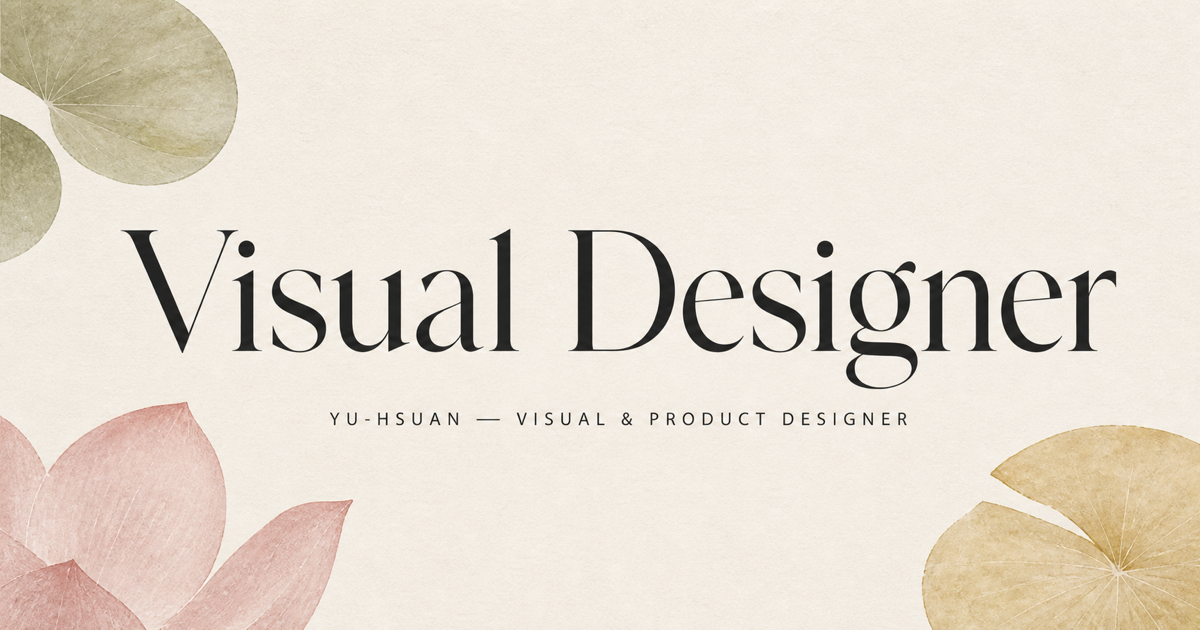
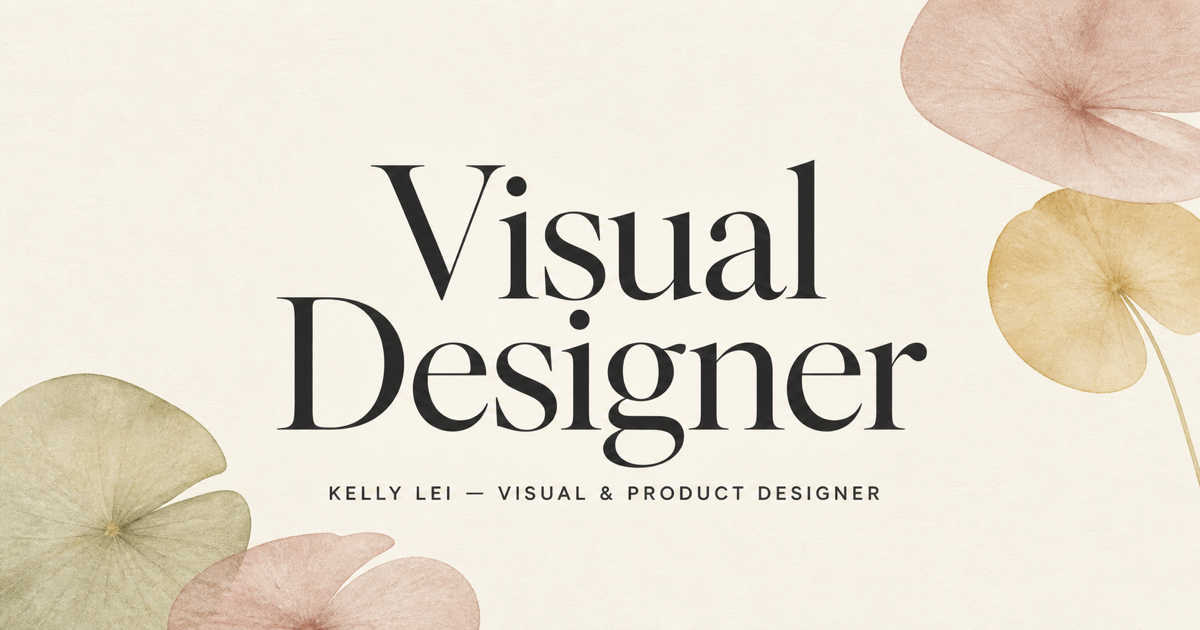
Personalize portfolio for Kelly and add motion

diff --git a/app/globals.css b/app/globals.css
@@ -19,9 +19,9 @@ button{font:inherit;color:inherit}
 .intro h1 span{padding-right:12vw}
 .intro-note{position:absolute;bottom:5vh;left:3.2vw;text-align:left;font-size:11px;line-height:1.7;letter-spacing:.04em}
 .petal{position:absolute;border-radius:55% 45% 58% 42%;filter:blur(.2px);opacity:.95}
-.petal-a{width:160px;height:105px;background:#486345;left:30%;top:44%;transform:rotate(-28deg);box-shadow:inset 14px 12px 35px #9aae8a}
-.petal-b{width:145px;height:95px;background:#d5afa7;right:27%;top:38%;transform:rotate(22deg);box-shadow:inset -12px 8px 30px #f2d5ce}
-.petal-c{width:75px;height:75px;background:#e3c6a1;right:35%;bottom:31%;transform:rotate(42deg);box-shadow:inset 7px -7px 18px #b98f72}
+.petal-a{width:160px;height:105px;background:#486345;left:30%;top:44%;transform:rotate(-28deg);box-shadow:inset 14px 12px 35px #9aae8a;animation:petalA 6s ease-in-out infinite}
+.petal-b{width:145px;height:95px;background:#d5afa7;right:27%;top:38%;transform:rotate(22deg);box-shadow:inset -12px 8px 30px #f2d5ce;animation:petalB 7.5s ease-in-out infinite}
+.petal-c{width:75px;height:75px;background:#e3c6a1;right:35%;bottom:31%;transform:rotate(42deg);box-shadow:inset 7px -7px 18px #b98f72;animation:petalC 5.5s ease-in-out infinite}
 
 .portfolio{padding:120px 3.2vw 150px}
 .work-heading{display:grid;grid-template-columns:1fr 2fr;margin-bottom:65px}
@@ -33,11 +33,14 @@ button{font:inherit;color:inherit}
 .masonry{display:grid;grid-template-columns:1fr 1fr;gap:90px 16px;align-items:start}
 .project{cursor:pointer;outline:none}
 .project:nth-child(even){margin-top:150px}
-.visual{height:clamp(390px,48vw,690px);position:relative;overflow:hidden}
+.visual{height:clamp(390px,48vw,690px);position:relative;overflow:hidden;transition:transform .45s cubic-bezier(.2,.7,.2,1),box-shadow .45s}
 .project:not(.tall) .visual{height:clamp(300px,38vw,540px)}
 .project-no{position:absolute;top:14px;left:16px;font:11px Georgia,serif;z-index:3}
 .open-label{position:absolute;right:14px;bottom:14px;font-size:9px;background:var(--paper);padding:9px 11px;opacity:0;transform:translateY(5px);transition:.25s}
 .project:hover .open-label,.project:focus .open-label{opacity:1;transform:none}
+.project:hover .visual,.project:focus .visual{transform:translateY(-6px);box-shadow:0 18px 42px #2a251c1a}
+.visual:after{content:'';position:absolute;inset:-50% -80%;background:linear-gradient(110deg,transparent 42%,#fff4 50%,transparent 58%);transform:translateX(-45%);transition:transform .9s ease;pointer-events:none}
+.project:hover .visual:after{transform:translateX(45%)}
 .caption{display:grid;grid-template-columns:1fr auto;gap:20px;padding-top:13px}
 .caption h3{font:400 clamp(22px,2.2vw,34px)/1.1 Georgia,serif;max-width:560px;margin:0}
 .caption p{font-size:11px;margin:10px 0 0;color:var(--muted)}
@@ -45,13 +48,13 @@ button{font:inherit;color:inherit}
 
 .mock{height:100%;display:flex;align-items:center;justify-content:center;position:relative}
 .phone{position:absolute;width:30%;height:70%;border:6px solid #25231f;border-radius:28px;background:#eeece5;box-shadow:0 18px 28px #0002}
-.phone.back{transform:translate(-42px,12px) rotate(-8deg);background:#dce6d5}
-.phone.front{transform:translate(38px,-5px) rotate(5deg);padding:28px 15px;display:flex;flex-direction:column;gap:12px}
+.phone.back{transform:translate(-42px,12px) rotate(-8deg);background:#dce6d5;animation:phoneBack 6s ease-in-out infinite}
+.phone.front{transform:translate(38px,-5px) rotate(5deg);padding:28px 15px;display:flex;flex-direction:column;gap:12px;animation:phoneFront 5s ease-in-out infinite}
 .phone.front small{font-size:7px}
 .phone.front b{font:18px Georgia,serif}
 .phone.front strong{font-size:20px}
 .phone.front i{height:12%;background:#d8d4cc;border-radius:5px}
-.browser{width:82%;height:64%;border:4px solid #24221f;background:#f2eee8;box-shadow:15px 15px 0 #24221f;padding:20px;display:flex;flex-direction:column}
+.browser{width:82%;height:64%;border:4px solid #24221f;background:#f2eee8;box-shadow:15px 15px 0 #24221f;padding:20px;display:flex;flex-direction:column;animation:softFloat 6.5s ease-in-out infinite}
 .browser small{font-size:8px;letter-spacing:.15em}
 .browser b{font:clamp(35px,5vw,70px)/.82 Georgia,serif;margin:auto 0}
 .browser span{align-self:flex-end;font-size:8px}
@@ -60,7 +63,7 @@ button{font:inherit;color:inherit}
 .social>div:nth-child(2){transform:translateY(30px);background:#344f3b;color:#eee8dc}
 .social>div:nth-child(3){transform:translateY(-20px);background:#c58e83}
 .social em{font-weight:400}
-.screen{width:84%;height:64%;background:#f3f0e9;border:4px solid #25231f;box-shadow:16px 16px 0 #5a483e;padding:18px}
+.screen{width:84%;height:64%;background:#f3f0e9;border:4px solid #25231f;box-shadow:16px 16px 0 #5a483e;padding:18px;animation:softFloat 7s ease-in-out infinite reverse}
 .screen small{font-size:8px}
 .screen b{font:clamp(32px,4vw,58px)/.9 Georgia,serif;display:block;margin:11% 0 6%}
 .screen>span{display:block;width:40%;height:1px;background:#222}
@@ -137,7 +140,8 @@ footer>div:last-child{grid-column:2;grid-row:1}
 .profile-experience b,.profile-experience span{display:block}
 .profile-experience b{font-weight:500}
 .experience-chips{display:flex;gap:6px}
-.experience-chips span{width:34px;height:34px;border:1px solid #ddd;border-radius:50%;display:grid;place-items:center;background:white;font-size:7px;font-weight:700}
+.experience-chips span{min-width:34px;height:34px;padding:0 8px;border:1px solid #ddd;border-radius:50%;display:grid;place-items:center;background:white;font-size:7px;font-weight:700}
+.experience-chips span:last-child{border-radius:18px}
 .profile-actions{width:100%;display:grid;grid-template-columns:1fr 42px;gap:9px;margin-top:30px}
 .message-button{height:42px;border-radius:99px;background:#202020;color:white;display:flex;align-items:center;justify-content:center;gap:9px;font-size:13px;font-weight:700}
 .message-button span{font-size:17px}
@@ -166,6 +170,12 @@ footer>div:last-child{grid-column:2;grid-row:1}
 .message-button span{font-size:17px}
 .save-button{width:42px;height:42px}
 }
+@keyframes petalA{50%{transform:translate(-8px,-13px) rotate(-34deg)}}
+@keyframes petalB{50%{transform:translate(9px,-11px) rotate(28deg)}}
+@keyframes petalC{50%{transform:translate(-5px,10px) rotate(35deg)}}
+@keyframes phoneBack{50%{transform:translate(-46px,3px) rotate(-10deg)}}
+@keyframes phoneFront{50%{transform:translate(41px,-14px) rotate(7deg)}}
+@keyframes softFloat{50%{transform:translateY(-10px) rotate(.6deg)}}
 @media(prefers-reduced-motion:reduce){html{scroll-behavior:auto}
-*{transition:none!important}
+*{transition:none!important;animation:none!important}
 }

diff --git a/app/page.tsx b/app/page.tsx
@@ -25,13 +25,13 @@ export default function Home(){
   const filtered=active==='全部'?projects:projects.filter(p=>p.category===active);
   return <main>
     <aside className="profile-sidebar" aria-label="個人資料">
-      <div className="profile-avatar" role="img" aria-label="Yu-Hsuan 的頭像預留位置"><span>YH</span></div>
+      <div className="profile-avatar" role="img" aria-label="Kelly Lei 的頭像預留位置"><span>KL</span></div>
       <div className="availability"><i/> OPEN TO WORK</div>
-      <h2>Yu-Hsuan</h2>
+      <h2>Kelly Lei</h2>
       <p className="profile-role">Visual & Product Designer</p>
       <p className="profile-location">● Taipei, Taiwan</p>
-      <p className="profile-experience"><b>3+ Years</b><span>Experience Includes:</span></p>
-      <div className="experience-chips" aria-label="專業領域"><span>UI</span><span>WEB</span><span>KV</span></div>
+      <p className="profile-experience"><b>10+ Years</b><span>Experience Includes:</span></p>
+      <div className="experience-chips" aria-label="專業領域"><span>UI</span><span>WEB</span><span>GRAPHIC</span></div>
       <div className="profile-actions">
         <a className="message-button" href="mailto:hello@example.com"><span>✉</span> Message</a>
         <button className="save-button" aria-label="收藏作品集">♡</button>
@@ -44,13 +44,13 @@ export default function Home(){
     </aside>
     <div className="site-content">
     <header className="topbar">
-      <a href="#top" className="monogram">Y.</a>
+      <a href="#top" className="monogram">K.</a>
       <nav className={menu?'open':''}><a href="#work">WORK</a><a href="#play">PLAY</a><a href="#about">ABOUT</a><a href="mailto:hello@example.com">CONTACT</a></nav>
       <button onClick={()=>setMenu(!menu)} aria-label="切換選單">{menu?'CLOSE':'MENU'}</button>
     </header>
 
     <section className="intro" id="top">
-      <p className="hello">Hi, I’m Yu-Hsuan</p>
+      <p className="hello">Hi, I’m Kelly Lei</p>
       <h1><span>Visual</span><br/><i>Designer</i></h1>
       <div className="petal petal-a"/><div className="petal petal-b"/><div className="petal petal-c"/>
       <p className="intro-note">Designing thoughtful digital experiences<br/>and visual stories from Taipei.</p>
@@ -69,7 +69,7 @@ export default function Home(){
 
     <section className="play" id="play"><p>PLAYGROUND</p><div className="ticker">TYPE · COLOR · MOTION · IDEAS · TYPE · COLOR · MOTION · IDEAS ·</div></section>
     <section className="about" id="about"><p className="label">ABOUT</p><h2>我喜歡把複雜的事情，<br/><i>整理成簡單而有感的體驗。</i></h2><div className="about-copy"><p>從介面、活動網站到行銷視覺，我在意的不只是畫面好不好看，而是每個選擇是否真正回應了問題。保持好奇、反覆推敲，然後留下剛剛好的設計。</p><a href="mailto:hello@example.com">LET’S WORK TOGETHER ↗</a></div></section>
-    <footer><div><span>YU-HSUAN</span><span>VISUAL & PRODUCT DESIGNER</span></div><a href="mailto:hello@example.com">hello@example.com</a><div><span>TAIPEI, TAIWAN</span><span>© 2026</span></div></footer>
+    <footer><div><span>KELLY LEI</span><span>VISUAL & PRODUCT DESIGNER</span></div><a href="mailto:hello@example.com">hello@example.com</a><div><span>TAIPEI, TAIWAN</span><span>© 2026</span></div></footer>
     </div>
 
     {selected&&<div className="modal" role="dialog" aria-modal="true" onMouseDown={e=>e.target===e.currentTarget&&setSelected(null)}>

diff --git a/app/layout.tsx b/app/layout.tsx
@@ -14,16 +14,16 @@ const geistMono = Geist_Mono({
 
 export const metadata: Metadata = {
   metadataBase: new URL('https://yu-hsuan-design-portfolio.kellylei9.chatgpt.site'),
-  title: 'YU-HSUAN — Visual & Product Designer',
+  title: 'Kelly Lei — Visual & Product Designer',
   description: '專注於數位體驗與品牌視覺的設計作品集。',
   openGraph: {
-    title: 'YU-HSUAN — Visual & Product Designer',
+    title: 'Kelly Lei — Visual & Product Designer',
     description: '把想法，設計成有感的體驗。',
     images: ['https://yu-hsuan-design-portfolio.kellylei9.chatgpt.site/og.png'],
   },
   twitter: {
     card: 'summary_large_image',
-    title: 'YU-HSUAN — Visual & Product Designer',
+    title: 'Kelly Lei — Visual & Product Designer',
     description: '把想法，設計成有感的體驗。',
     images: ['https://yu-hsuan-design-portfolio.kellylei9.chatgpt.site/og.png'],
   },
